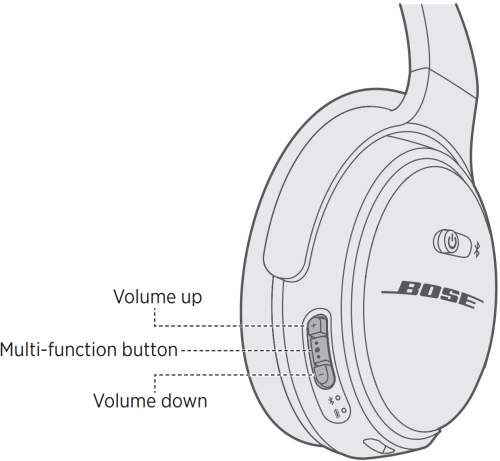
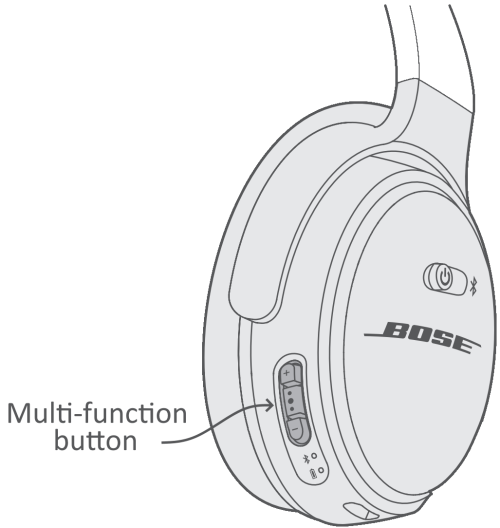
Update documentation

Changed region(s): [[0.0, 0.0, 1.0, 1.0]]

diff --git a/README.md b/README.md
@@ -2,9 +2,19 @@
 
 ## Control Windows microphone mute with the multi-function button on Bose QuietComfort headphones
 
-Bose QuietComfort models 35, 35ii, and 45 each have three buttons on the bottom of the right ear cup.  The function of these buttons depends on the active bluetooth profile. When attached to a Windows desktop via bluetooth, those buttons will typically function as shown below.
+Bose QuietComfort models 35, 35ii, and 45 each have three buttons on the bottom of the right ear cup.  The top and bottom buttons control volume up and down in all modes.  The function of the middle "multi-function" button depends on the active bluetooth profile.
 
 ![Bose QC buttons](https://github.com/aderusha/BoseQCMicMute/blob/main/images/qcbuttons.png?raw=true)
+
+When attached to a Windows desktop via bluetooth, this button will typically issue track control commands as shown below:
+
+| Button press           | Action         |
+|------------------------|----------------|
+| Single press MFB       | Play/pause     |
+| Double press MFB       | Next track     |
+| Triple press MFB       | Previous track |
+
+---
 
 This program will catch presses of the Multi-function button and control the mute status on **all attached recording devices**.
 
@@ -15,5 +25,12 @@ This program will catch presses of the Multi-function button and control the mut
 | Triple press MFB       | Umute all microphones  |
 | Single click tray icon | Toggle global mic mute |
 | Right-click tray icon  | Control menu           |
+
+Changes in mute status will alert the user in the following ways:
+
+* Low tone is played through the headset on mic disable (muted)
+* High tone is played through the headset on mic enable (unmuted)
+* A Windows notification is briefly shown
+* System tray icon and icon hover text (white icon = mic active, black icon = mic muted)
 
 Developed with [AutoHotkey v2](https://www.autohotkey.com/v2/)
